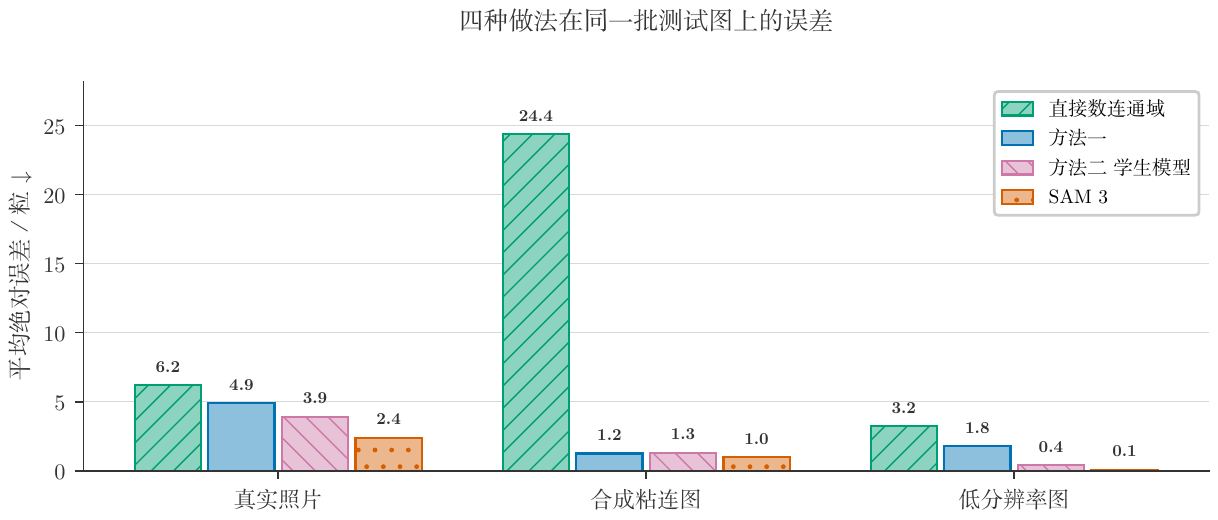
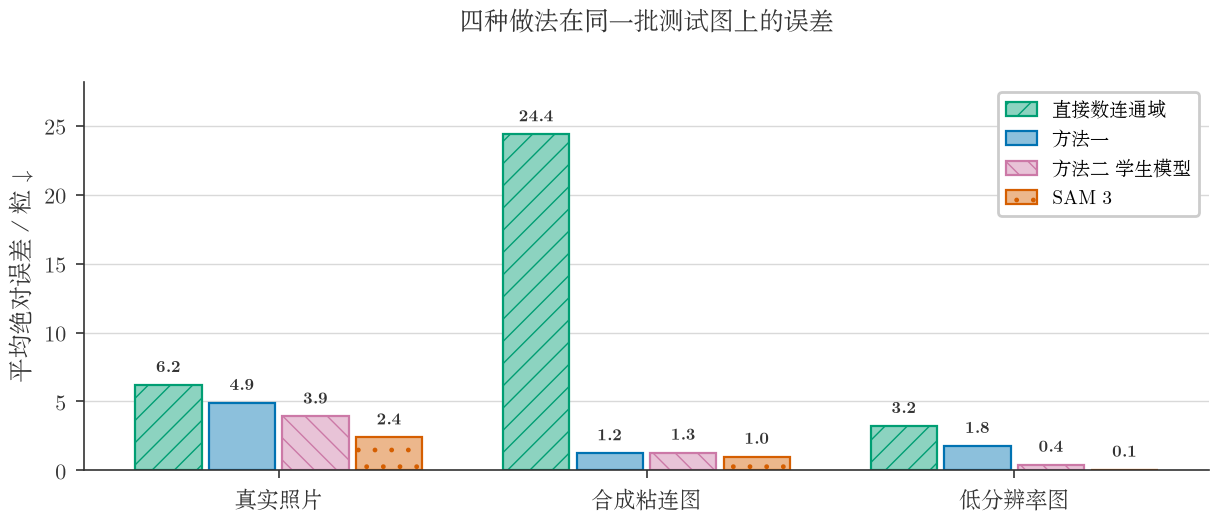
README 更新插图，补入地形图、种子深度图与热力图

diff --git a/README.md b/README.md
@@ -14,7 +14,15 @@
 ![方法一的处理流程](docs/images/pipeline_real.png)
 
 单粒面积、短轴、凸实度都由图像自身量出，因此换一张照片不必改参数。
-判定为粘连的连通域再单独走一遍注水分割，种子数由距离变换的局部极大值给出：
+判定为粘连的连通域再单独走一遍注水分割。把距离变换取负值当作地形，每粒米是一个坑，
+水从坑底往上涨，两坑的水相遇处就是切线：
+
+![距离变换当作地形，粘连块在这里是两个坑](docs/images/terrain_3d.png)
+
+种子数由距离变换的 h-maxima 给出。两粒之间的谷比较低的峰矮出 h 以上才切开，
+一粒米内部的浅起伏会被抹平，不会被切成两半：
+
+![沿山脊的剖面，谷深超过 h 才判为两粒](docs/images/seed_depth.png)
 
 ![粘连块的切分过程](docs/images/cluster_detail.png)
 
@@ -41,6 +49,10 @@
 粘连率自 0% 升至 80% 时，直接统计连通域的误差由 0.25 粒升至 38.88 粒，方法一保持在 3.5 粒以内：
 
 ![误差随粘连率的变化](docs/images/error_vs_touching.png)
+
+方法一逐张的预测值与真值对照，格子越深表示落在该格的图片越多，虚线为两者相等：
+
+![预测值与真值对照的热力图](docs/images/pred_vs_true.png)
 
 同一张合成粘连图上，方法一与 SAM 3 的逐粒结果。虚线框标出的是没有真正切开、而是按面积折算粒数的粘连块，框上的数字为该块被计作几粒：
 
